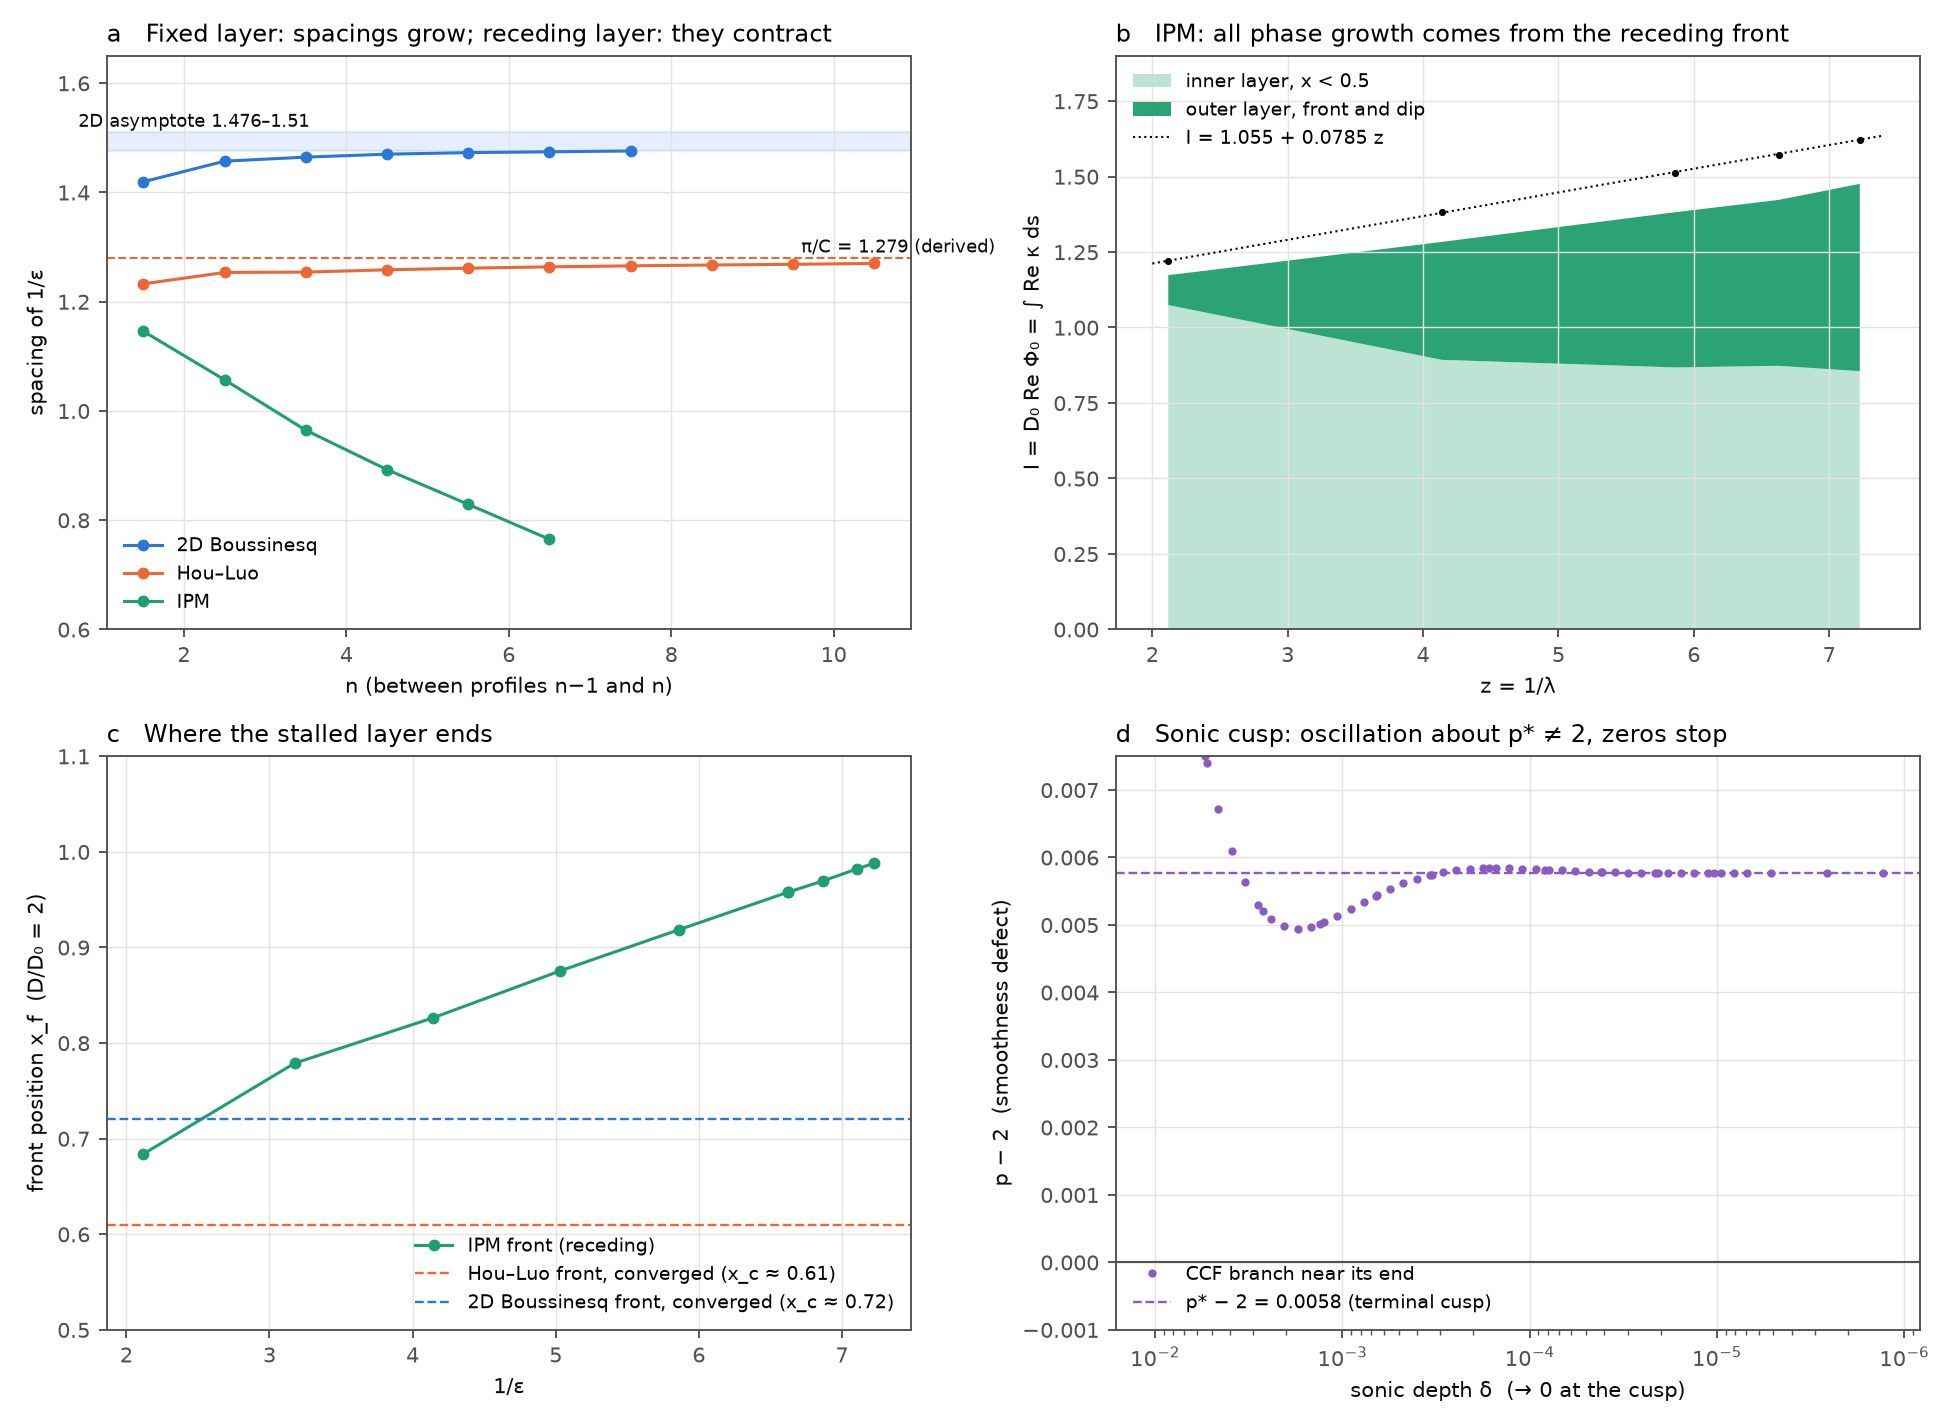
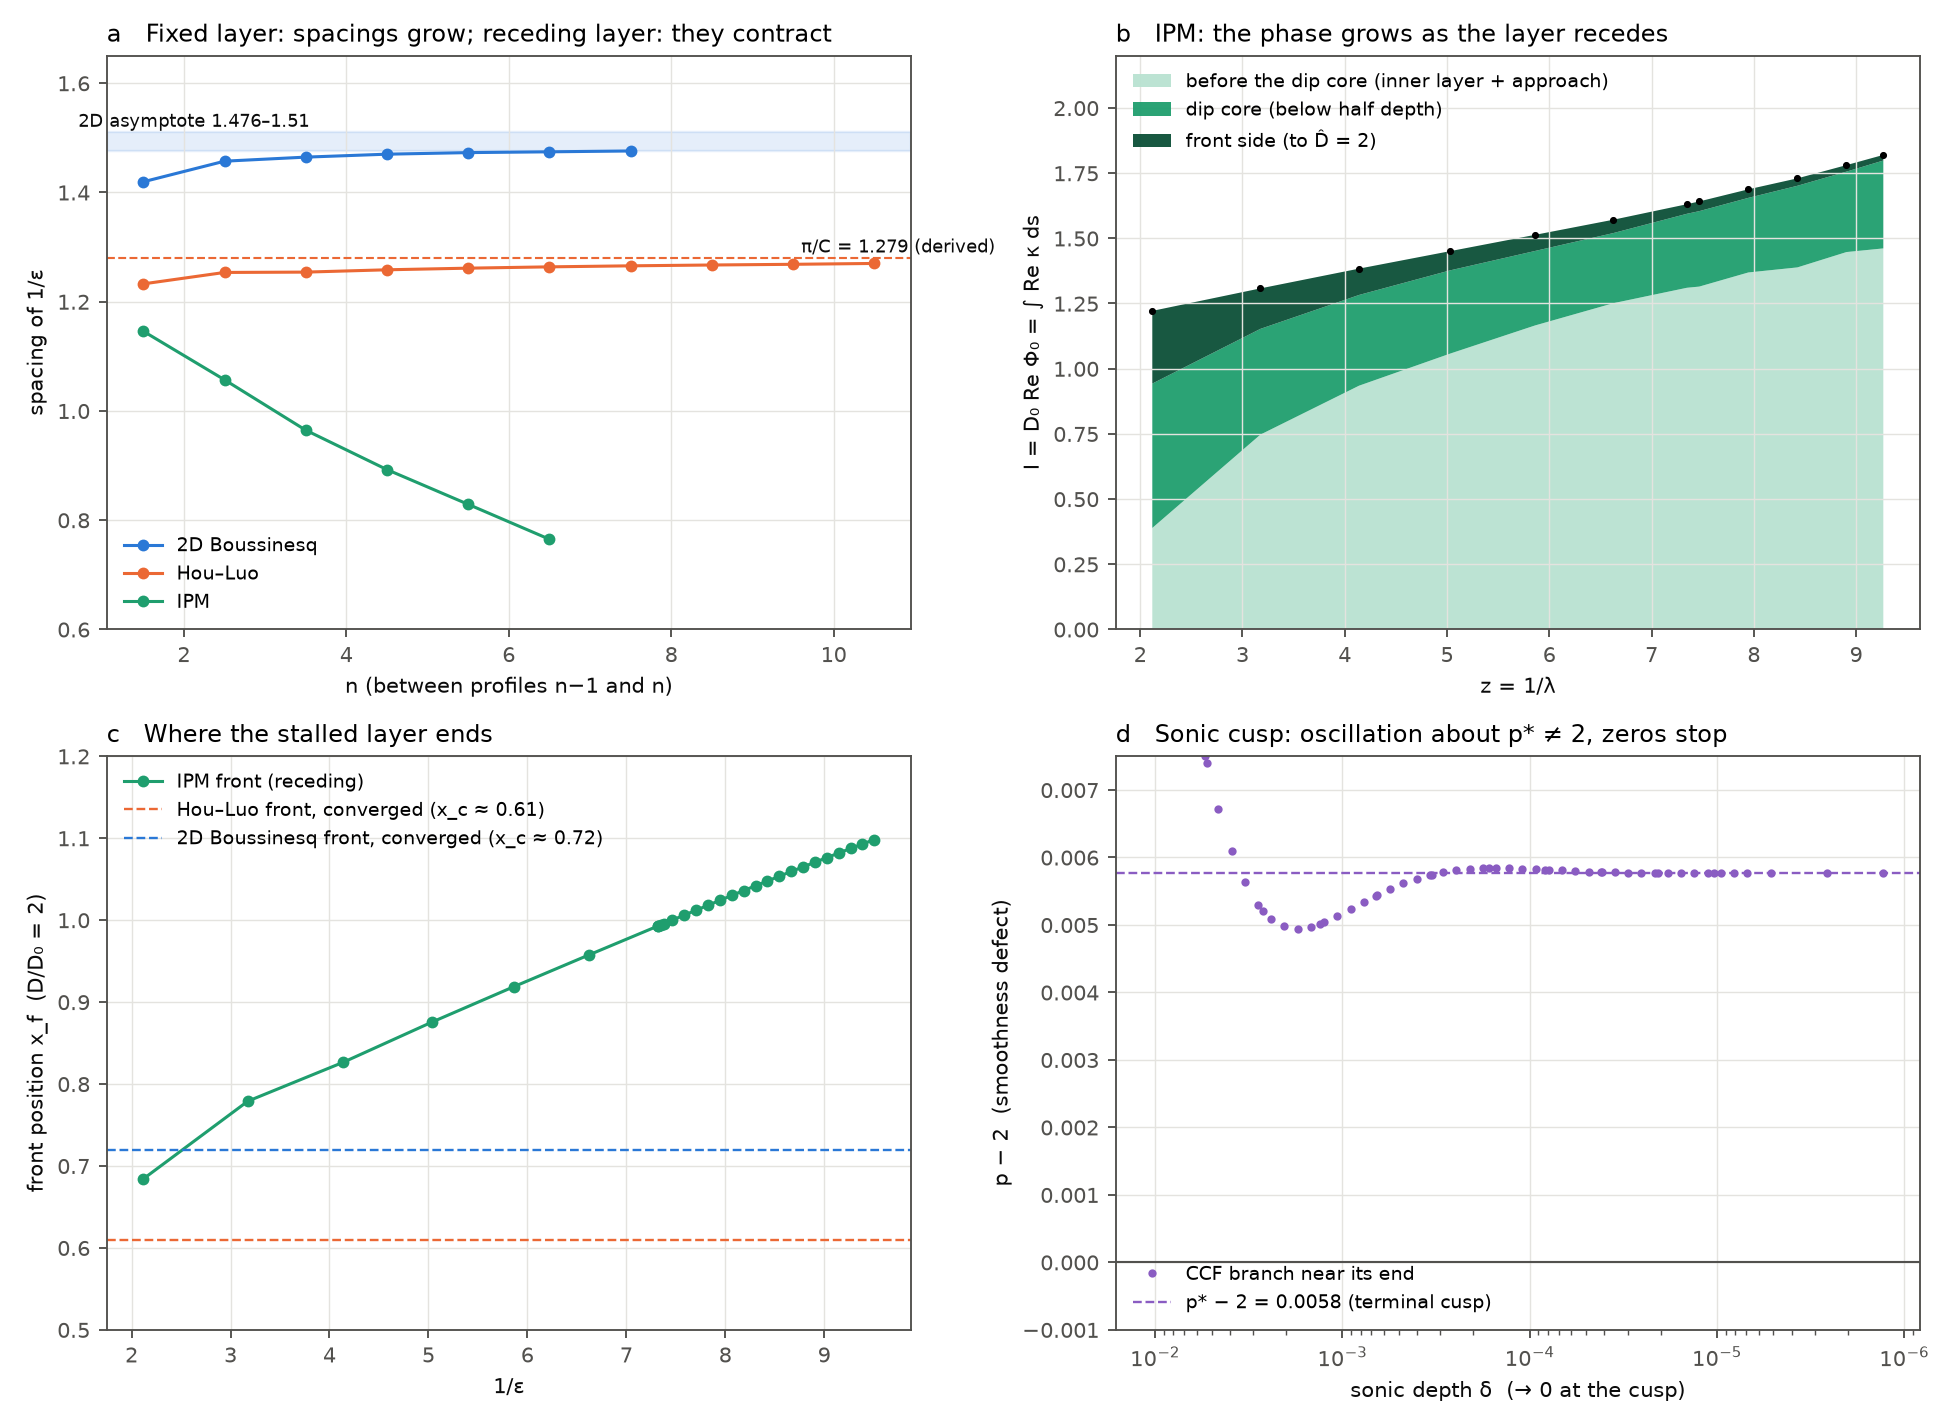
P03 IPM stage 4 (registered before any test): lambda8-lambda10 from the repaired phase with bands and required precision; endpoint geometry resolution-checked (h_s 0.00625 at z=8.066, 8.786); class unresolved
Claude-Session: https://claude.ai/code/session_019Uaxwtm17foVxpyvRRENv5

diff --git a/programs/P03_boussinesq_ladder/ipm_stage4_predict.py b/programs/P03_boussinesq_ladder/ipm_stage4_predict.py
@@ -1,0 +1,82 @@
+"""Stage 4: λ₈, λ₉, λ₁₀ from the repaired phase (registered in PREDICTIONS_IPM.md before any test).
+Rule: Re Φ₀(z_n) = nπ + δ_n with Re Φ₀(z) from the repaired deep table (wkb_phase3 on the h_s = 0.0125 continuation
+e5; states with untracked front points excluded), smoothed by a least-squares quadratic in z over a window of ±0.5
+around the target (the state-to-state scatter of Re Φ₀ is ≈ 0.04 from front–grid sampling of the dip).
+Offset scenarios (the only freedom; fixed here, not refitted later):
+  A  δ = δ₆ = 1.974 (the latest measured offset)                                  ← central value
+  B  δ = 2.031 (mean of n = 1–5)
+  C  δ drifting on with the n = 5 → 6 step: δ_n = 1.974 − 0.057 (n − 6)
+Uncertainty band = [min, max] over A–C, widened by the grid correction of Re Φ₀ (h_s 0.0125 → 0.00625, measured at
+z = 8.066 and 8.786 by ipm_deepres_check.py; its mean is applied as a shift and its spread added) and by the
+smoothing-fit error.
+For each rung the script also states what a decisive test needs: the expected defect amplitude near the rung (the
+λ₇ crossing slope continued with the decay rate predicted by Im Φ₀, Fig. 2b, times 1 + λ) and the error in m that would
+locate z_n to 0.003 (σ_m ≤ 0.003 |dm/dz|)."""
+import numpy as np, re, glob
+
+R = {}
+for f in ("ipm_phase3_l7.out", "ipm_phase3_deep.out"):
+    for line in open(f):
+        m = re.search(r"z=\s*([0-9.]+) .*Φ=\s*([-0-9.]+)\s*([-+][0-9.]+)i I=([0-9.]+) front_fail=(\d+)", line)
+        if m and int(m.group(5)) == 0:
+            R[round(float(m.group(1)), 4)] = (float(m.group(2)), float(m.group(3)))
+z = np.array(sorted(R)); Re = np.array([R[k][0] for k in z]); Im = np.array([R[k][1] for k in z])
+
+# grid correction of Re Φ₀ from the fine-grid spot checks
+corr = []
+for f in sorted(glob.glob("ipm_deepres_z*.out")):
+    v = {}
+    for line in open(f):
+        m = re.search(r"z=([0-9.]+) hs=([0-9.]+):.*ReΦ=([0-9.]+)", line)
+        if m: v[float(m.group(2))] = (float(m.group(1)), float(m.group(3)))
+    if 0.0125 in v and 0.00625 in v:
+        corr.append((v[0.00625][0], v[0.00625][1] - v[0.0125][1]))
+corr = np.array(corr) if corr else np.zeros((0, 2))
+dgrid = float(np.mean(corr[:, 1])) if len(corr) else 0.0
+sgrid = float(np.max(np.abs(corr[:, 1] - dgrid))) if len(corr) > 1 else abs(dgrid)
+print("grid correction of Re Φ₀ (h_s 0.00625 − 0.0125):", ", ".join(f"z = {a:.3f}: {b:+.4f}" for a, b in corr),
+      f"→ applied {dgrid:+.4f}, spread ± {sgrid:.4f}")
+
+
+def phase_at(zz):
+    w = np.abs(z - zz) <= 0.5
+    c, cov = np.polyfit(z[w] - zz, Re[w], 2, cov=True)
+    return c, float(np.sqrt(cov[2, 2]))
+
+
+def solve(target, z0):
+    zz = z0
+    for _ in range(30):
+        c, e = phase_at(zz)
+        f0, d0 = np.polyval(c, 0.0) + dgrid - target, np.polyval(np.polyder(c), 0.0)
+        step = -f0 / d0; zz += step
+        if abs(step) < 1e-9: break
+    c, e = phase_at(zz)
+    return zz, np.polyval(np.polyder(c), 0.0), e
+
+
+# defect scale: λ₇ crossing slope continued with the predicted decay per half-period (Fig. 2b) × (1 + λ)
+sl7 = abs(float(re.search(r"slope dm/dz = ([-0-9.e+]+)", open("ipm_lambda7_final.out").read()).group(1)))
+o = np.argsort(z)
+print(f"\n{'n':>2} {'scenario':>9} {'δ':>6} {'z_n':>8} {'λ_n':>9}")
+rows = []
+slope = sl7; zprev = 7.3451; dprev = 4.54
+for n in (8, 9, 10):
+    zs = {}
+    for lab, d in (("A", 1.974), ("B", 2.031), ("C", 1.974 - 0.057 * (n - 6))):
+        zn, dRe, efit = solve(n * np.pi + d, 7.9 + 0.6 * (n - 8))
+        zs[lab] = (zn, dRe, efit)
+        print(f"{n:2d} {lab:>9} {d:6.3f} {zn:8.4f} {1 / zn:9.6f}")
+    zA, dRe, efit = zs["A"]
+    lo = min(v[0] for v in zs.values()) - (sgrid + efit) / dRe
+    hi = max(v[0] for v in zs.values()) + (sgrid + efit) / dRe
+    # decay between consecutive rungs: Re Φ₀ advances by π; Im Φ₀ changes by the local slope × π
+    w = np.abs(z - 0.5 * (zprev + zA)) <= 0.45
+    rate = -np.pi * np.polyfit(Re[w], Im[w], 1)[0] * (1 + 1 / zA)
+    slope = slope * np.exp(-rate) * dRe / dprev; dprev = dRe
+    rows.append((n, zA, lo, hi, 1 / zA, 1 / hi, 1 / lo, rate, slope, 0.003 * slope))
+    zprev = zA
+print("\nRegistered values (central = scenario A; band = scenarios A–C ⊕ grid spread ⊕ fit error):")
+print(f"{'n':>2} {'z_n':>8} {'band':>19} {'λ_n':>9} {'λ band':>21} {'e-folds/rung':>12} {'|dm/dz| expected':>16} {'σ_m for ±0.003':>14}")
+for n, zA, lo, hi, l, l1, l2, rate, sl, sm in rows:
+    print(f"{n:2d} {zA:8.4f} [{lo:.4f}, {hi:.4f}] {l:9.6f} [{l1:.6f}, {l2:.6f}] {rate:12.2f} {sl:16.1e} {sm:14.1e}")

diff --git a/programs/P03_boussinesq_ladder/fig_endings2.py b/programs/P03_boussinesq_ladder/fig_endings2.py
@@ -1,10 +1,11 @@
 """Fig. 5: how the stalled layer ends decides the hierarchy.
 (a) Spacings of consecutive profiles in 1/ε: increasing towards π/C for a stalled layer of fixed extent (2D
     Boussinesq, Hou–Luo; π/C = 1.279 derived for Hou–Luo), contracting for the receding layer of IPM.
-(b) IPM: anatomy of the phase coefficient I = D₀ Re Φ₀ = ∫Re κ ds — the inner layer (x < 0.5) contributes a constant;
-    all growth comes from the outer layer as the front recedes (`ipm_phase_density.out`).
-(c) Front position x_f (D/D₀ = 2 beyond the dip) along the IPM branch, against the converged fronts of Hou–Luo
-    (x_c ≈ 0.61) and 2D Boussinesq (x_c ≈ 0.72).
+(b) IPM: anatomy of the phase coefficient I = D₀ Re Φ₀ = ∫Re κ ds with the repaired tracker
+    (`ipm_phase_anatomy3.out`): the part before the dip core grows as the dip and front recede, the dip core
+    shrinks and levels off, the front side vanishes.
+(c) Front position x_f (D/D₀ = 2 beyond the dip) along the IPM branch (`ipm_travel_time.out`, to z = 9.5), against
+    the converged fronts of Hou–Luo (x_c ≈ 0.61) and 2D Boussinesq (x_c ≈ 0.72).
 (d) Sonic-cusp ending (CCF): the defect oscillates about p* − 2 = 0.0058 > 0, so the zeros stop."""
 import numpy as np, glob, re, sys, os, contextlib, io
 import matplotlib; matplotlib.use("Agg")
@@ -35,39 +36,35 @@ a.set_xlabel('n (between profiles n−1 and n)'); a.set_ylabel('spacing of 1/ε'
 a.legend(fontsize=8, frameon=False, loc='lower left')
 a.set_title('a   Fixed layer: spacings grow; receding layer: they contract', loc='left', fontsize=10)
 
-# (b) anatomy of the IPM phase
+# (b) anatomy of the IPM phase (repaired tracker)
 b = ax[0, 1]
 rows = []
-for line in open("ipm_phase_density.out"):
+for line in open("ipm_phase_anatomy3.out"):
     p = line.split()
-    if len(p) > 4 and re.match(r'^\d', p[0]):
-        v = [float(x) for x in p]; rows.append((v[0], v[2], sum(v[3:6]), sum(v[6:])))
+    if len(p) == 13 and re.match(r'^\d', p[1]):
+        v = [float(x) for x in p[1:]]                       # z D0 I inner approach core front ...
+        rows.append((v[0], v[2], v[3] + v[4], v[5], v[6]))
 R = np.array(sorted(rows))
-b.stackplot(R[:, 0], R[:, 2], R[:, 3], colors=['#b9e2d1', COL['IPM']], alpha=0.95,
-            labels=['inner layer, x < 0.5', 'outer layer, front and dip'])
+b.stackplot(R[:, 0], R[:, 2], R[:, 3], R[:, 4], colors=['#b9e2d1', COL['IPM'], '#0b4f37'], alpha=0.95,
+            labels=['before the dip core (inner layer + approach)', 'dip core (below half depth)', 'front side (to D̂ = 2)'])
 b.plot(R[:, 0], R[:, 1], 'k.', ms=4)
-zz = np.linspace(2, 7.4, 20); b.plot(zz, 1.055 + 0.0785 * zz, ':', color=INK, lw=0.9, label='I = 1.055 + 0.0785 z')
-b.set_xlabel('z = 1/λ'); b.set_ylabel('I = D₀ Re Φ₀ = ∫ Re κ ds'); b.set_ylim(0, 1.9)
+b.set_xlabel('z = 1/λ'); b.set_ylabel('I = D₀ Re Φ₀ = ∫ Re κ ds'); b.set_ylim(0, 2.2)
 b.legend(fontsize=8, frameon=False, loc='upper left')
-b.set_title('b   IPM: all phase growth comes from the receding front', loc='left', fontsize=10)
+b.set_title('b   IPM: the phase grows as the layer recedes', loc='left', fontsize=10)
 
 # (c) front position
 c = ax[1, 0]
 fr = []
-for f in ("ipm_wkb_fine_rungs_cut2c.out", "ipm_wkb_fine_l6_cut2c.out"):
-    for line in open(f):
-        m = re.search(r"λ=([0-9.]+).*s_cut=(-?[0-9.]+)", line)
-        if m: fr.append((1 / float(m.group(1)), np.exp(float(m.group(2)))))
-for line in open("ipm_dip_geometry_s16.out"):
+for line in open("ipm_travel_time.out"):
     p = line.split()
-    if p and p[0].startswith("ipm_scan"):
-        fr.append((float(p[1]), np.exp(float(p[6]))))
+    if len(p) == 13 and re.match(r'^\d', p[1]):
+        fr.append((float(p[1]), float(p[12])))
 F = np.array(sorted(fr))
 c.plot(F[:, 0], F[:, 1], 'o-', color=COL['IPM'], ms=4, lw=1.3, label='IPM front (receding)')
 c.axhline(0.61, color=COL['Hou–Luo'], ls='--', lw=1.0, label='Hou–Luo front, converged (x_c ≈ 0.61)')
 c.axhline(0.72, color=COL['2D Boussinesq'], ls='--', lw=1.0, label='2D Boussinesq front, converged (x_c ≈ 0.72)')
-c.set_xlabel('1/ε'); c.set_ylabel('front position x_f  (D/D₀ = 2)'); c.set_ylim(0.5, 1.1)
-c.legend(fontsize=8, frameon=False, loc='lower right')
+c.set_xlabel('1/ε'); c.set_ylabel('front position x_f  (D/D₀ = 2)'); c.set_ylim(0.5, 1.2)
+c.legend(fontsize=8, frameon=False, loc='upper left')
 c.set_title('c   Where the stalled layer ends', loc='left', fontsize=10)
 
 # (d) CCF sonic-cusp ending

diff --git a/programs/P03_boussinesq_ladder/ipm_deepres_check.py b/programs/P03_boussinesq_ladder/ipm_deepres_check.py
@@ -2,16 +2,19 @@
 (ipm_shift.py from the e5 state).  For each grid: m − 2, the wall-dip geometry and the resolution indicator of
 ipm_deep.py (|Ω_b + ∂ₓR| / max ∂ₓR over the dip-to-front window: the IPM identity Ω_b = −∂ₓR holds exactly for the
 continuous problem), the travel time T = ∫ds/D̂ and the repaired phase (wkb_phase3).
-usage: ipm_deepres_check.py Z STATE_0125 STATE_00625  (writes one line per grid; deepres_z{Z}_hs0.00625.out is the
-solver log)."""
+usage: ipm_deepres_check.py Z STATE_0125 STATE_00625 [Z_0125]  (writes one line per grid; deepres_z{Z}_hs0.00625.out is
+the solver log).  Z_0125 is the exact z of the continuation state (e5 steps from z₀ = 1/0.1339405 = 7.4660017, so
+its z differ from the rounded values by 1.7e-6): m is recomputed by marching the state, and a march at a λ the
+state was not solved for gives a meaningless m (the O(1) geometry and phase are unaffected)."""
 import numpy as np, sys, os
 from ipm_solver import IPM
 from bq_newton import full
 from ipm_wkb import wkb_phase3, wall_data
 from scipy.integrate import cumulative_trapezoid
 
-z = float(sys.argv[1]); lam = 1 / z
-for f, hs in ((sys.argv[2], 0.0125), (sys.argv[3], 0.00625)):
+z = float(sys.argv[1])
+z125 = float(sys.argv[4]) if len(sys.argv) > 4 else z
+for f, hs, lam in ((sys.argv[2], 0.0125, 1 / z125), (sys.argv[3], 0.00625, 1 / z)):
     B = IPM(lam, hs=hs, Nb=32, s_sw=12.0, s_start=-20.0); Y = np.load(f)
     r = B.march(full(B, Y) / B.ea2[:, None], return_all=True)
     D = (1 + lam) + r['Ur'][:, 0]; D0 = 1 + lam - r['A']; Dh = D / D0
@@ -27,6 +30,6 @@ for f, hs in ((sys.argv[2], 0.0125), (sys.argv[3], 0.00625)):
     g = np.concatenate([B.s[i0:icut], [s_cut]]); yv = np.concatenate([1 / Dh[i0:icut], [0.5]])
     T = float(cumulative_trapezoid(yv, g)[-1])
     o = wkb_phase3(f, lam=lam, Nb=32, hs=hs, Dcut=2.0)
-    print(f"z={z:.4f} hs={hs}: m-2={r['m'] - 2:+.3e} D̂min={Dh[i]:.4f} (parab {Dmin_p:.4f}) x_dip={np.exp(B.s[i]):.4f} "
+    print(f"z={1 / lam:.7f} hs={hs}: m-2={r['m'] - 2:+.3e} D̂min={Dh[i]:.4f} (parab {Dmin_p:.4f}) x_dip={np.exp(B.s[i]):.4f} "
           f"x_cut={np.exp(s_cut):.4f} max∂ₓR={np.max(G[w]):.2f} mis={mis:.2e} T={T:.4f} "
           f"ReΦ={o['Phi'].real:.4f} I={o['I'].real:.5f} front_fail={o['nfail_front']}", flush=True)

diff --git a/programs/P03_boussinesq_ladder/PREDICTIONS_IPM.md b/programs/P03_boussinesq_ladder/PREDICTIONS_IPM.md
@@ -644,3 +644,69 @@ holdout therefore stays not decisive, as recorded above.**
   rung.
 - What exposed it was not a residual but the non-monotone I(z) in the old table (1.659, 1.723, 1.746, 1.921, 1.747,
   1.856, …). The geometric travel time of the same profiles grows smoothly.
+
+## Stage 4 — λ₈, λ₉, λ₁₀ from the repaired phase (registered 2026-10-01, before any test)
+*Nothing above is edited. Stage 3's λ₈ predictions (H1 8.0087, H1′ 8.0063, H2 7.9899, H3 7.9917, H4 7.91–7.92)
+stay as registered.*
+
+**Order of work, as requested:** repaired phase → endpoint geometry → asymptotic class → these predictions.
+- **Repaired phase.** Note 2 above; `ipm_phase3_*.out`.
+- **Endpoint geometry** (`ipm_travel_time.out`, `ipm_endpoint_geometry.out`, `ipm_deepres_z*.out`).
+  - Down to z = 9.87 (λ = 0.101) the dip deepens ever more slowly: D̂_min goes from 0.36 at z = 7.47 to 0.20 at
+    z = 9.51, at −0.107 per unit z early and −0.045 over the last unit.
+  - The dip and the front recede: x_dip 0.88 → 1.00 and x_cut 1.00 → 1.10.
+  - The front steepens: max ∂ₓR 7.8 → 21.
+  - Halving h_s at z = 8.066 and 8.786 leaves D̂_min, x_dip, x_cut and T unchanged to 0.3 %, so the deceleration of
+    the dip is not a resolution artifact. It lowers the resolution indicator from 5 % / 9 % to 1.4 % / 2.5 % and
+    raises max ∂ₓR by 4–6 %.
+- **Asymptotic class: unresolved.**
+  - I = D₀ Re Φ₀ grows linearly in z (slope 0.098, curvature +0.005 ± 0.002 over 7.47–9.27), which excludes the
+    fixed-layer class.
+  - Pole and log fits over the full range prefer a finite z_c ≈ 10–13, with χ² ≈ 35 for 20 dof. The deep range
+    alone allows any z_c ≥ 9.5.
+  - The termination indicators (D̂_min, 1/max ∂ₓR) extrapolate to zero only linearly and decelerate.
+  - So λ_c = 0 (λ_n ∝ n^{−1/2}), λ_c > 0, and termination at a singular front all remain open. The candidate
+    λ_c ≈ 0.037 of stage 3 came from rung fits to the defect zeros, and the endpoint is no longer inferred from
+    m − 2.
+
+**Rule** (`ipm_stage4_predict.py` → `ipm_stage4_predictions.out`). Solve Re Φ₀(z_n) = nπ + δ_n.
+- Re Φ₀(z) is the repaired deep table (h_s = 0.0125, states with untracked front points excluded). It is smoothed
+  by a local quadratic over ±0.5 in z and shifted by the measured grid correction +0.027 ± 0.010 (h_s 0.0125 →
+  0.00625 at z = 8.066 and 8.786).
+- Offset scenarios:
+  - A: δ = δ₆ = 1.974 (central);
+  - B: δ = 2.031 (mean of n = 1–5);
+  - C: the n = 5 → 6 drift continues, δ_n = 1.974 − 0.057(n − 6).
+- Band = scenarios A–C, widened by the grid spread and the fit error.
+
+| n | z_n (central) | band | λ_n (central) | λ band |
+|---|---|---|---|---|
+| 8 | 7.9994 | [7.9700, 8.0172] | 0.125010 | [0.124732, 0.125471] |
+| 9 | 8.6282 | [8.5895, 8.6450] | 0.115899 | [0.115673, 0.116421] |
+| 10 | 9.2013 | [9.1575, 9.2142] | 0.108680 | [0.108528, 0.109200] |
+
+**What a test needs.** The expected crossing slope continues the λ₇ slope (2.5 × 10⁻⁸ per unit z) with the decay per
+half-period predicted by Im Φ₀ times (1 + λ). That gives 2.7, 2.8 and 3.1 e-folds per rung.
+
+| n | expected \|dm/dz\| at the crossing | σ_m for σ_z = 0.01 | σ_m for σ_z = 0.003 |
+|---|---|---|---|
+| 8 | 1.8e-9 | 1.8e-11 | 5.3e-12 |
+| 9 | 1.2e-10 | 1.2e-12 | 3.6e-13 |
+| 10 | 5.9e-12 | 5.9e-14 | 1.8e-14 |
+
+- Our floor is 1–3 × 10⁻⁹, so none of the three can be tested with the present solver.
+- λ₁₀ needs an error in m ≈ 2 near double-precision round-off, so it needs extended precision, and also a mesh that
+  follows the steepening front.
+
+**Decision rule for any future test.**
+- A measurement counts only if its total uncertainty is σ_z ≤ 0.01.
+- It confirms the rule at n if the measured z_n lies inside the band (widened by 2σ_z), and refutes it otherwise.
+- The band includes H1–H3 of stage 3 at n = 8 and excludes H4 (7.91–7.92, made with the faulty tracker). A test at
+  n = 8 could therefore reject H4 but not separate H1–H3 from this rule.
+
+**Disclosure: values of m − 2 seen before this registration in the λ₈–λ₁₀ range.**
+- The h_s = 0.0125 continuation (z = 7.47–9.87, every 0.12): m − 2 between −6.7 × 10⁻⁷ and +7.4 × 10⁻⁷. Re-solving
+  two of these states at h_s = 0.00625 changes them by 2.4 × 10⁻⁸ and 3.2 × 10⁻⁷, so they are discretization error.
+- h_s = 0.00625 at z = 8.066 and 8.786: +1.0 × 10⁻⁹ and +2.0 × 10⁻⁹. Both are at the erratic floor, against
+  expected |m − 2| ≲ 2 × 10⁻¹⁰ there, so they carry no sign information.
+- No m − 2 value in this range was used. The predictions use only the phase.
